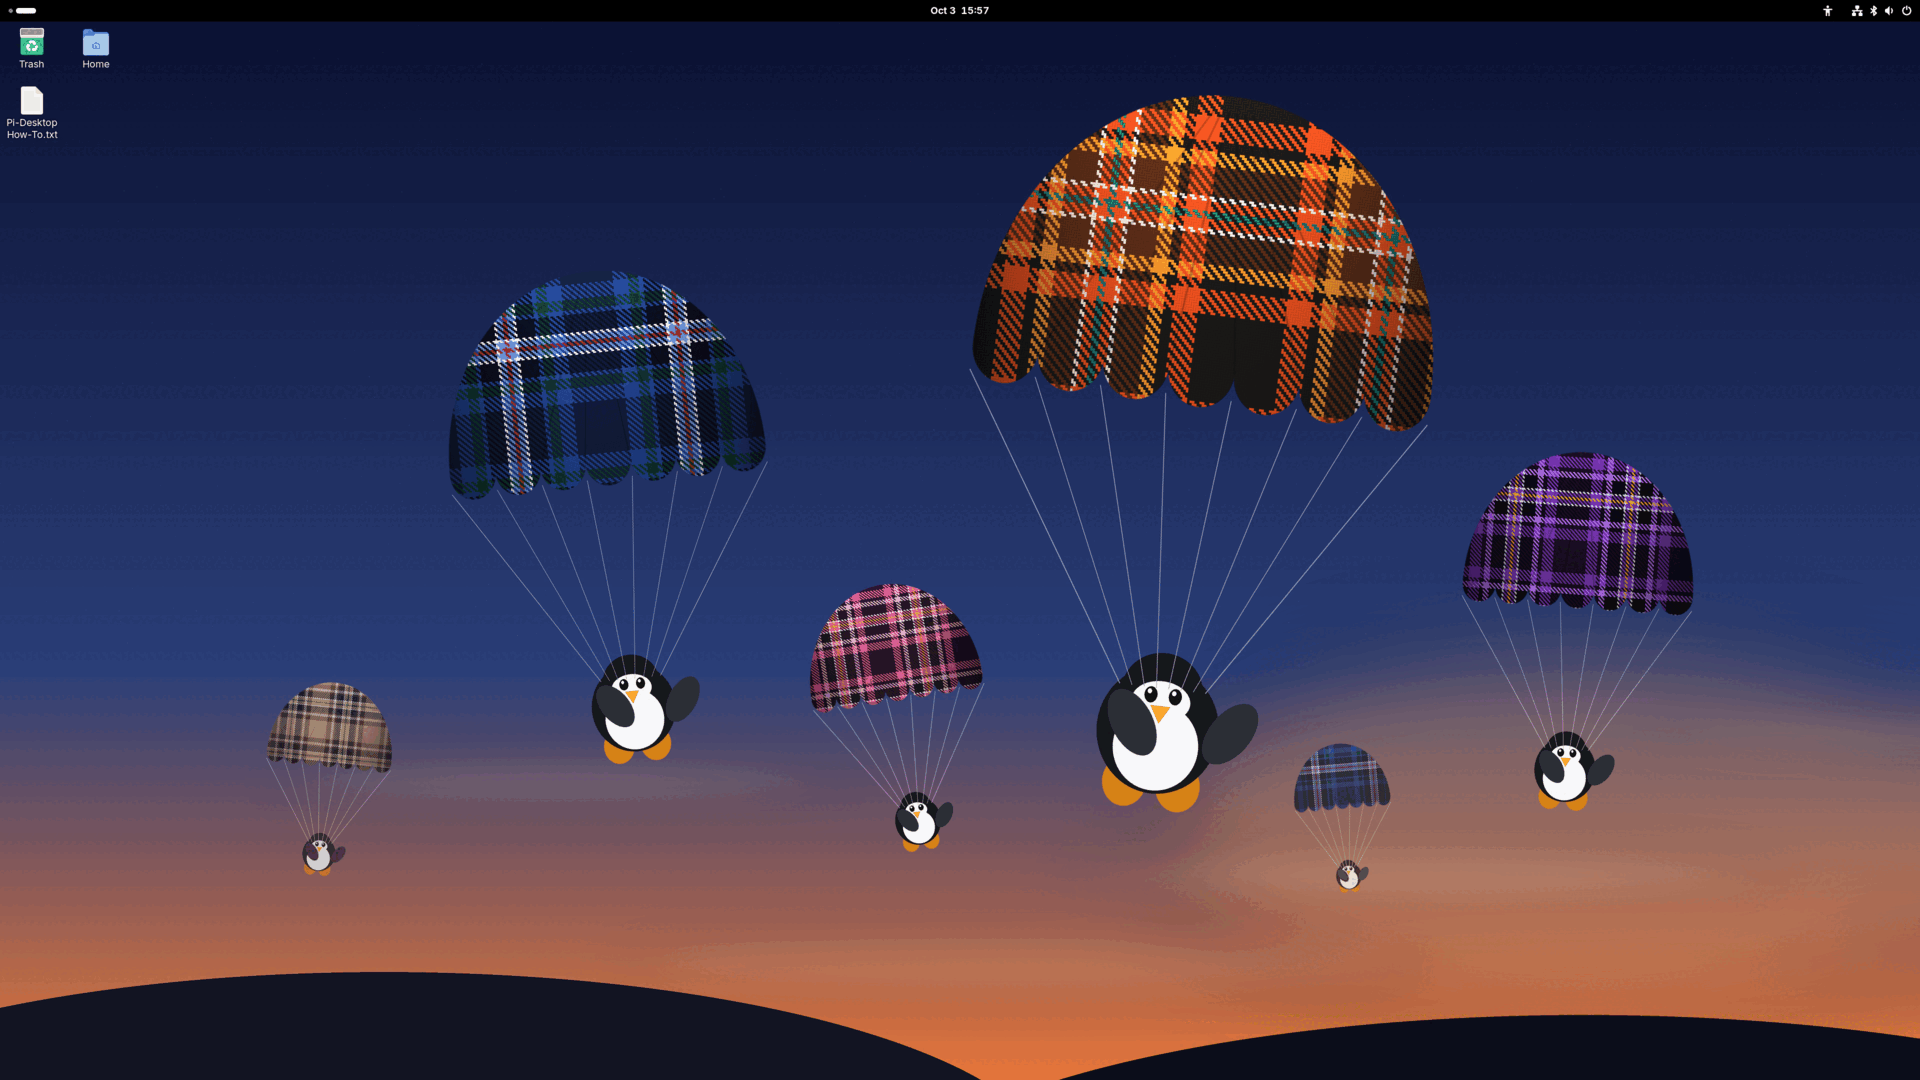
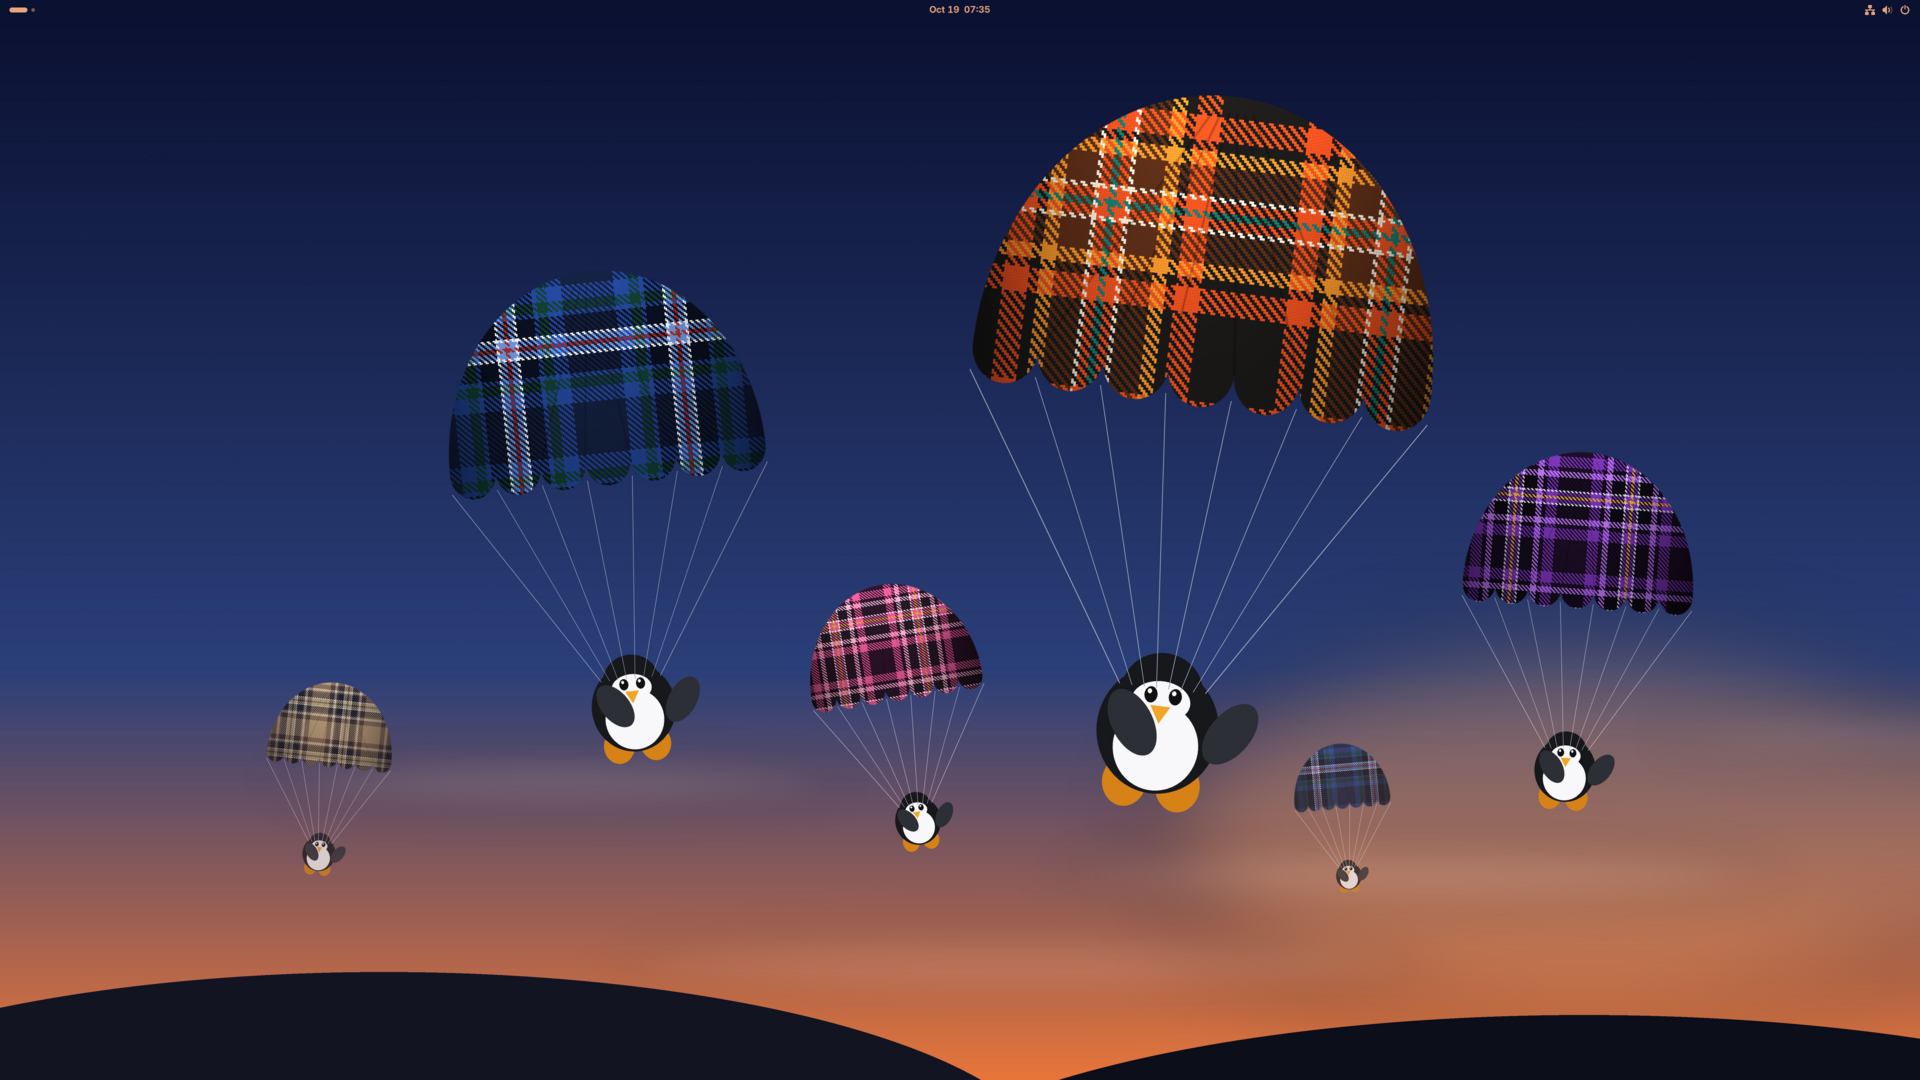
docs: the 5.0 desktop screenshot on the site and in the README

Changed region(s): [[0.0, 0.0, 1.0, 0.1528], [0.4375, 0.55, 0.4688, 0.5806]]

diff --git a/docs/index.html b/docs/index.html
@@ -35,8 +35,8 @@
 <main>
   <div class="wrap">
     <figure>
-      <img src="img/desktop.png" alt="Pi-Desktop 4.0 on a 32-inch 4K monitor at 120 Hz: tartan-canopied penguins parachuting over a dusk horizon, with the How-To file on the desktop. 5.0 ships the Plaid dock and top bar and dark mode by default (screenshot to follow)." width="1920" height="1080" loading="lazy">
-      <figcaption>Pi-Desktop 4.0 on a 32-inch 4K monitor at 120 Hz; 5.0 ships the Plaid dock and top bar and dark mode by default (screenshot to follow).</figcaption>
+      <img src="img/desktop.png" alt="Plaid Pi 5.0 on a 32-inch 4K monitor at 120 Hz: tartan-canopied penguins parachuting over a dusk horizon under the Plaid top bar; the dock auto-hides until the pointer reaches the bottom edge." width="1920" height="1080" loading="lazy">
+      <figcaption>Plaid Pi 5.0 on a 32-inch 4K monitor at 120 Hz (the dock auto-hides until the pointer reaches the bottom edge).</figcaption>
     </figure>
 
     <h2>What it is</h2>

diff --git a/README.md b/README.md
@@ -11,7 +11,7 @@ A GNOME 50 desktop image for the Orange Pi 5B (RK3588S), built from Ubuntu 26.04
 build framework, on Armbian's Rockchip vendor kernel merged with upstream stable Linux 6.1.189 plus the Plaid Pi
 kernel patches. Not affiliated with or endorsed by Canonical or Armbian. Not a Raspberry Pi product.
 
-![Pi-Desktop 4.0 on a 32-inch 4K monitor at 120 Hz: tartan-canopied penguins parachuting over a dusk horizon; 5.0 ships the Plaid dock and top bar and dark mode by default (screenshot to follow)](docs/img/desktop.png)
+![Plaid Pi 5.0 on a 32-inch 4K monitor at 120 Hz: tartan-canopied penguins parachuting over a dusk horizon under the Plaid top bar; the dock auto-hides until the pointer reaches the bottom edge.](docs/img/desktop.png)
 
 ## What it is
 
